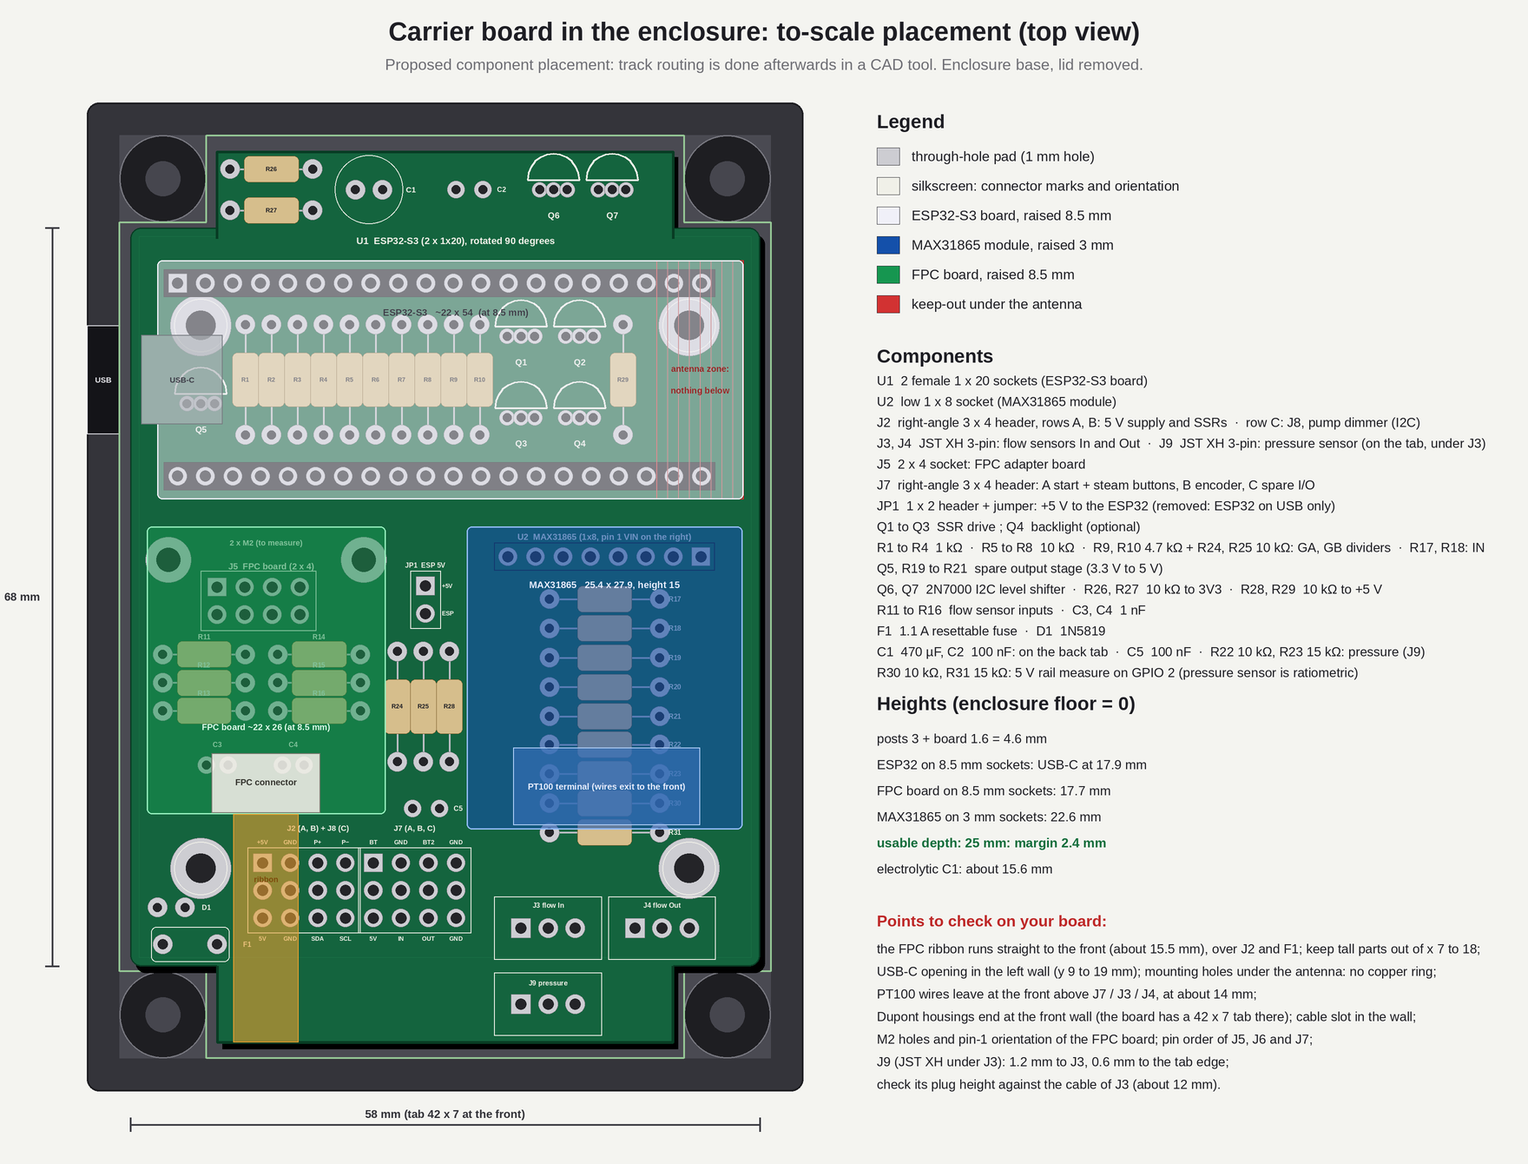
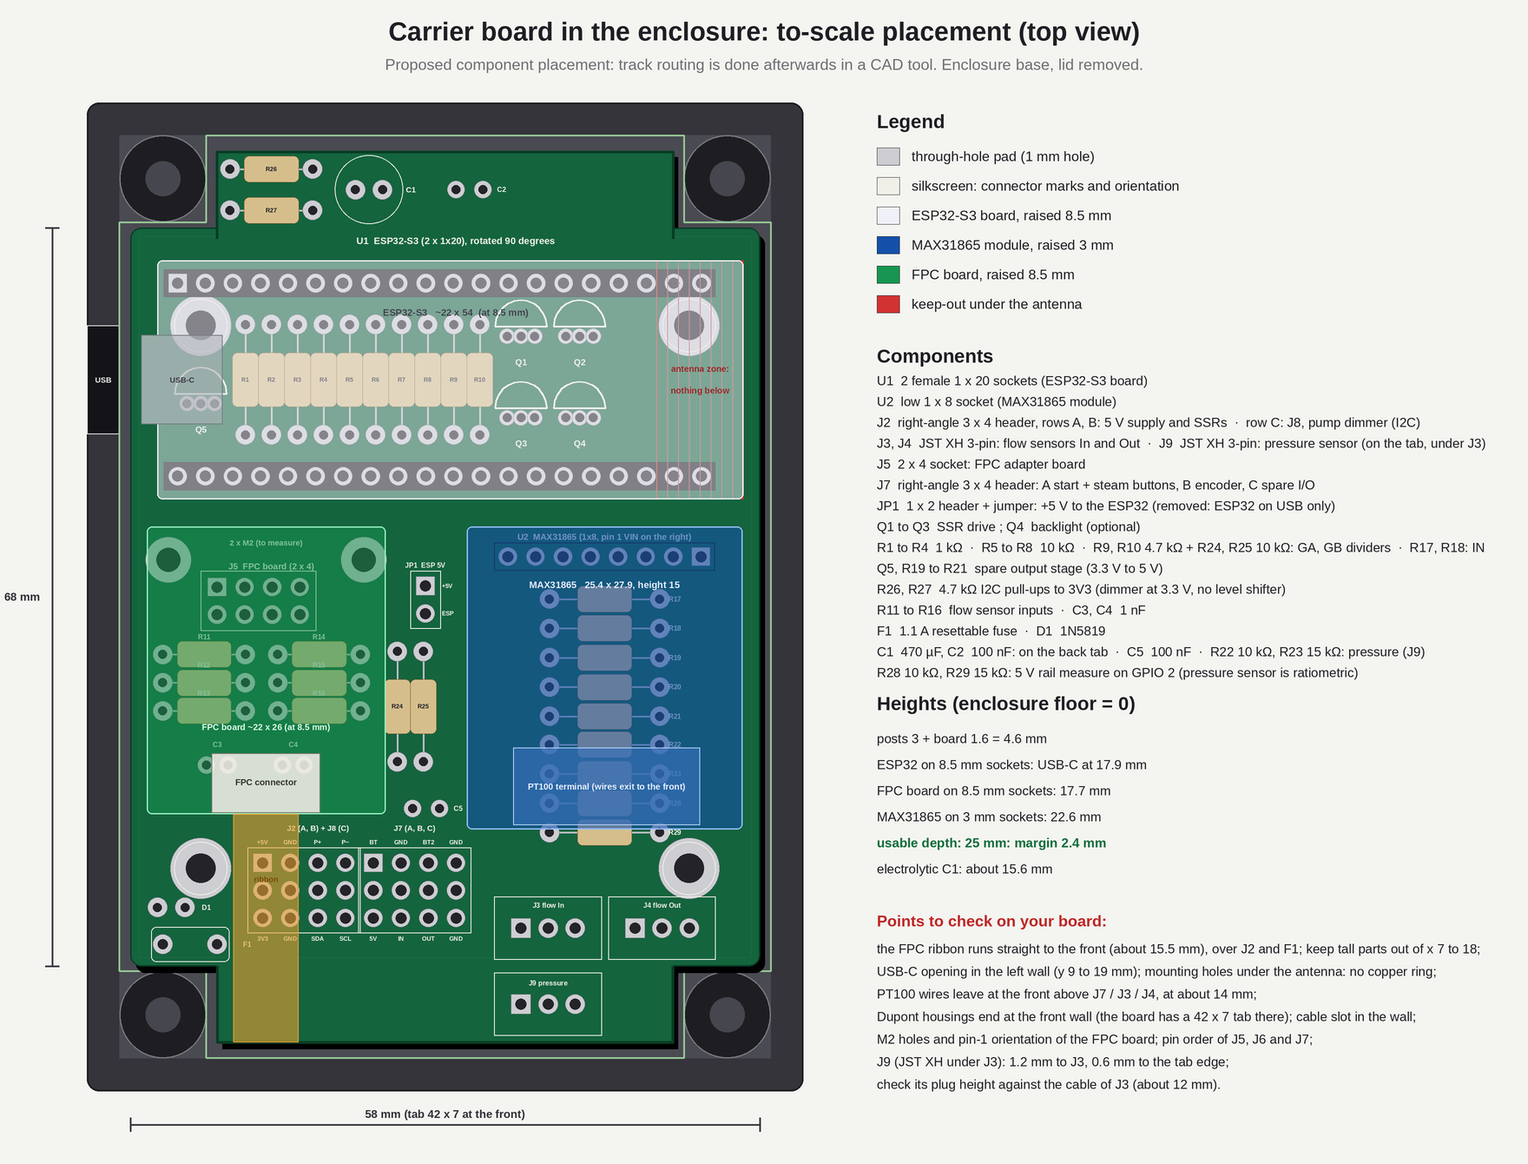
Dimmer powered from 3.3 V: level shifter removed (Q6, Q7, two pull-ups), R26/R27 4.7 k to 3V3, rail divider renumbered R28/R29
Claude-Session: https://claude.ai/code/session_012AnZeUFZeKvHXGUDRfJG7Q

diff --git a/tools/board_placement.py b/tools/board_placement.py
@@ -128,7 +128,6 @@ for i, name in enumerate(["R1", "R2", "R3", "R4", "R5", "R6", "R7", "R8", "R9", 
 # Q1..Q4: TO-92 bodies are 4.8 mm wide, so two rows of two (pitch 5.4 mm), clear of R10 and of the antenna zone
 for name, (qx, qy) in zip(["Q1", "Q2", "Q3", "Q4"], [(36.0, 10.0), (41.4, 10.0), (36.0, 17.5), (41.4, 17.5)]):
     to92(qx, qy, name)
-axial_v(45.4, 14.0, label="R29")                                # I2C pull-up to +5 V (SCL side), right of Q2 / Q4, clear of the antenna zone
 # spare I/O conditioning, flat resistors under the MAX31865 (3 mm clearance): R17 4.7 k + R18 10 k (input divider), R19 1 k base, R20 4.7 k pull-up to 5 V, R21 10 k base to GND
 for i, name in enumerate(["R17", "R18", "R19", "R20", "R21"]):
     axial(43.7, 34.2 + i * 2.7, pitch=10.16, label=None)
@@ -139,8 +138,8 @@ for i, name in enumerate(["R22", "R23"]):
     axial(43.7, 47.6 + i * 2.7, pitch=10.16, label=None)
     text(d, X(49.6), Y(47.6 + i * 2.7), name, 8, SILK, True, 'lm')
 
-# 5 V rail measure (GPIO 2), same 10 k / 15 k ratio as the pressure divider: R30 (series) and R31 (to GND), below R23
-for i, name in enumerate(["R30", "R31"]):
+# 5 V rail measure (GPIO 2), same 10 k / 15 k ratio as the pressure divider: R28 (series) and R29 (to GND), below R23
+for i, name in enumerate(["R28", "R29"]):
     axial(43.7, 53.0 + i * 2.7, pitch=10.16, label=None)
     text(d, X(49.6), Y(53.0 + i * 2.7), name, 8, SILK, True, 'lm')
 
@@ -189,7 +188,7 @@ rect(d, X(12.2) - 1.4 * K, Y(ROWS[0]) - 1.4 * K, X(12.2 + 3 * 2.54) + 1.4 * K, Y
 silk(17.3, 55.3, "J2 (A, B) + J8 (C)", 9)
 for c_, lab in enumerate(["+5V", "GND", "P+", "P−"]):
     text(d, X(12.2 + c_ * 2.54), Y(ROWS[0]) - 1.9 * K, lab, 7, SILK, True)
-for c_, lab in enumerate(["5V", "GND", "SDA", "SCL"]):
+for c_, lab in enumerate(["3V3", "GND", "SDA", "SCL"]):
     text(d, X(12.2 + c_ * 2.54), Y(ROWS[2]) + 1.9 * K, lab, 7, SILK, True)
 # J7: 3 x 4 right-angle header. Row A: start button (2) + steam button (2); row B: encoder (GA, GB, VCC, GND); row C: spare I/O (+5 V, IN, OUT, GND). (The pressure sensor is J9, a JST XH under J3.)
 for r_ in range(3):
@@ -215,14 +214,13 @@ text(d, X(6.6), Y(62.6), "D1", 8, SILK, True, 'lm')
 circ(d, X(22.0), Y(-3.5), 3.15 * K, fill=None, outline=SILK + (255,), width=2)
 tpad(20.75, -3.5, ring=1.8, drill=0.8); tpad(23.25, -3.5, ring=1.8, drill=0.8); text(d, X(25.4), Y(-3.5), "C1", 9, SILK, True, 'lm')
 tpad(30.0, -3.5, ring=1.6, drill=0.8); tpad(32.5, -3.5, ring=1.6, drill=0.8); text(d, X(33.8), Y(-3.5), "C2", 8, SILK, True, 'lm')
-# corridor, below JP1: R24, R25 (10 k, GA / GB dividers to GND) and R28 (I2C pull-up to +5 V, SDA side), vertical
-for i, name in enumerate(["R24", "R25", "R28"]):
+# corridor, below JP1: R24, R25 (10 k, GA / GB dividers to GND), vertical
+for i, name in enumerate(["R24", "R25"]):
     axial_v(24.6 + i * 2.4, 44.1, label=name)
-# back tab: I2C level shifter, Q6 / Q7 2N7000 (SDA / SCL) and R26 / R27 (10 k pull-ups to 3V3), left of C1
+# back tab: R26 / R27, 4.7 k I2C pull-ups to 3V3 (dimmer powered from 3.3 V: no level shifter), left of C1
 for i, name in enumerate(["R26", "R27"]):
     axial(13.0, -5.4 + i * 3.8, pitch=7.62, label=None)
     text(d, X(13.0), Y(-5.4 + i * 3.8), name, 7, INK, True)
-to92(39.0, -3.5, "Q6"); to92(44.4, -3.5, "Q7")
 # C5 100 nF (pressure filter, taller than 3 mm so not under the MAX31865): in the corridor, below JP1
 tpad(26.0, 53.5, ring=1.6, drill=0.8); tpad(28.5, 53.5, ring=1.6, drill=0.8); text(d, X(29.8), Y(53.5), "C5", 8, SILK, True, 'lm')
 # JST XH x2: vertical headers, pins along x, the plugs come out upwards: no keep-out towards the front, away from the ribbon path (x 7 to 18)
@@ -304,11 +302,11 @@ comp = [
     "Q1 to Q3  SSR drive ; Q4  backlight (optional)",
     "R1 to R4  1 kΩ  ·  R5 to R8  10 kΩ  ·  R9, R10 4.7 kΩ + R24, R25 10 kΩ: GA, GB dividers  ·  R17, R18: IN",
     "Q5, R19 to R21  spare output stage (3.3 V to 5 V)",
-    "Q6, Q7  2N7000 I2C level shifter  ·  R26, R27  10 kΩ to 3V3  ·  R28, R29  10 kΩ to +5 V",
+    "R26, R27  4.7 kΩ I2C pull-ups to 3V3 (dimmer at 3.3 V, no level shifter)",
     "R11 to R16  flow sensor inputs  ·  C3, C4  1 nF",
     "F1  1.1 A resettable fuse  ·  D1  1N5819",
     "C1  470 µF, C2  100 nF: on the back tab  ·  C5  100 nF  ·  R22 10 kΩ, R23 15 kΩ: pressure (J9)",
-    "R30 10 kΩ, R31 15 kΩ: 5 V rail measure on GPIO 2 (pressure sensor is ratiometric)",
+    "R28 10 kΩ, R29 15 kΩ: 5 V rail measure on GPIO 2 (pressure sensor is ratiometric)",
 ]
 for i, t in enumerate(comp):
     text(d, lx, 438 + i * 24, t, 15, INK, False, 'lm')

diff --git a/tools/board_schematic.py b/tools/board_schematic.py
@@ -35,7 +35,7 @@ def head(x, y, title, sub=None):
 head(60, 118, "J2 + J8: right-angle 3 x 4 male header", "rows A and B: J2 (one 2 x 4 housing, two ribbons of 4 wires); row C: J8")
 rowA = [("+5 V", RED), ("GND", DK), ("pump +", BRN), ("pump −", BRN)]
 rowB = [("boiler +", ORG), ("boiler −", ORG), ("valve +", YEL), ("valve −", YEL)]
-rowC = [("+5 V", RED), ("GND", DK), ("SDA", VIO), ("SCL", VIO)]
+rowC = [("+3.3 V", RED), ("GND", DK), ("SDA", VIO), ("SCL", VIO)]
 x0, yA, yB, yC = 60, 186, 232, 278
 for i, (lab, col) in enumerate(rowA):
     pin(x0 + i * 88, yA, lab, col, 14)
@@ -93,7 +93,7 @@ for i, (lab, col) in enumerate(mx):
 # ================================================================ 2. GPIO table
 gx = 860
 T(gx, 118, "ESP32-S3: pins used", F(22, True), INK, 'lm')
-rows = [("5V", "+5 V via JP1 (after diode and fuse)", RED), ("3V3", "display, I2C pull-ups (3.3 V side)", RED),
+rows = [("5V", "+5 V via JP1 (after diode and fuse)", RED), ("3V3", "display, dimmer (J8), I2C pull-ups", RED),
         ("GPIO 17", "pump SSR drive", BRN), ("GPIO 18", "boiler SSR drive", ORG), ("GPIO 21", "valve SSR drive", YEL),
         ("GPIO 15", "flow In", BLU), ("GPIO 16", "flow Out", BLU), ("GPIO 1", "pressure sensor (ADC)", BLU), ("GPIO 2", "5 V rail measure (ADC)", RED),
         ("GPIO 4 / 5", "encoder A / B", GRN), ("GPIO 6 / 41", "start / steam buttons", (90, 90, 96)),
@@ -129,8 +129,8 @@ cy = 866
 chain(gx, cy, "Encoder GA, GB, spare IN 38 (x3): 5 V to 3.3 V", "module out", "4.7 k", "GPIO", [(270, "10 k")], GRN)
 chain(gx, cy + 120, "Pressure input: 4.5 V to 2.7 V", "sensor", "10 k", "GPIO 1", [(250, "15 k"), (320, "100 nF")], BLU)
 chain(gx, cy + 240, "5 V rail measure (same ratio: pressure = signal / rail)", "+5 V rail", "10 k", "GPIO 2", [(250, "15 k")], RED)
-T(gx, cy + 352, "Dimmer I2C: Q6, Q7 2N7000 level shifter", F(14, True), VIO, 'lm')
-T(gx, cy + 374, "10 k pull-ups to 3V3 and to +5 V; SDA 47, SCL 48, 100 kHz", F(13), GRY, 'lm')
+T(gx, cy + 352, "Dimmer I2C: module powered from 3.3 V, no level shifter", F(14, True), VIO, 'lm')
+T(gx, cy + 374, "4.7 k pull-ups to 3V3 (R26, R27); SDA 47, SCL 48, 100 kHz", F(13), GRY, 'lm')
 T(gx, cy + 394, "ships in UART mode: switch it to I2C once", F(13), GRY, 'lm')
 
 # ================================================================ 3. circuits

diff --git a/tools/enclosure_overview.py b/tools/enclosure_overview.py
@@ -169,9 +169,7 @@ cuboid(CX0 + 22.4 - 1.27 + 0.15, CY0 + 65.6, top + 0.1, 10.0, 8.6, 2.3, (225, 22
 # polyfuse, standing diode, electrolytic, 100 nF, and the two JST XH (vertical headers with their plugs)
 cuboid(CX0 + 1.9, CY0 + 64.4, top, 7.2, 3.2, 11.0, (232, 200, 60))
 cuboid(CX0 + 1.2, CY0 + 61.2, top, 2.7, 2.7, 5.2, BLACK)
-cyl(CX0 + 22.0, CY0 - 3.5, 3.15, top, 12.0, (30, 40, 90))
-for qx in (39.0, 44.4):                                                                   # Q6 / Q7, 2N7000 (I2C level shifter), back tab
-    cuboid(CX0 + qx - 2.4, CY0 - 3.5 - 1.9, top, 4.8, 3.8, 5.0, (25, 25, 28))                                # 470 uF electrolytic
+cyl(CX0 + 22.0, CY0 - 3.5, 3.15, top, 12.0, (30, 40, 90))                                # 470 uF electrolytic (back tab)
 cuboid(CX0 + 29.25, CY0 - 4.3, top, 4.0, 1.6, 4.2, (200, 120, 40))                        # 100 nF (back tab)
 for k in range(2):
     xb = CX0 + 38.5 + k * 10.5 - 4.95

diff --git a/docs/carrier_spec.md b/docs/carrier_spec.md
@@ -5,13 +5,13 @@ All **through-hole** parts (no SMD soldering). Related files: `images/board_plac
 ## Dimensions and mounting
 - Enclosure interior (measured): **60 mm wide x 85 mm long**. The four big posts are round, **8 mm in diameter** (8 x 8 mm footprint), in the corners. The small posts (3 mm high) are at **45 x 50 mm**, centred.
 - The posts leave a plus-shaped usable area: **60 x 69 mm** between the posts along the long sides (y from 8 to 77) and **44 mm wide over the full 85 mm length** between the end posts.
-- Board: **58 x 68 mm main body** (0.5 to 1 mm of margin all round) **plus a 42 x 7 mm tab on the cable (front) side and a 42 x 7 mm tab at the back, behind the ESP32** (x 8 to 50), so the board is 82 mm long at the tabs; two layers, ground plane. The tab lets the Dupont housings of J2 / J7 and the JST XH plugs sit on the board up to the front wall; the back tab holds C1 (470 µF, x 22, y −3.5), C2 (100 nF, x 31, y −3.5), the I2C level shifter Q6 / Q7 (2N7000, x 39 and 44.4) and its 3.3 V pull-ups R26 / R27 (left of C1), which frees the central corridor; keep it clear of the antenna zone (x 48.5 and beyond).
+- Board: **58 x 68 mm main body** (0.5 to 1 mm of margin all round) **plus a 42 x 7 mm tab on the cable (front) side and a 42 x 7 mm tab at the back, behind the ESP32** (x 8 to 50), so the board is 82 mm long at the tabs; two layers, ground plane. The tab lets the Dupont housings of J2 / J7 and the JST XH plugs sit on the board up to the front wall; the back tab holds C1 (470 µF, x 22, y −3.5), C2 (100 nF, x 31, y −3.5), and the two 4.7 kΩ I2C pull-ups to 3.3 V R26 / R27 (left of C1), which frees the central corridor; keep it clear of the antenna zone (x 48.5 and beyond).
 - 4 mounting holes on the **3 mm** small posts, **45 x 50 mm** spacing, centred in the interior (board coordinates (6.5, 9), (51.5, 9), (6.5, 59), (51.5, 59)).
 - Usable depth **25 mm**: posts 3 + board 1.6 = 4.6 mm; ESP32 on 8.5 mm sockets (USB-C at 17.9 mm); FPC adapter board on 8.5 mm sockets (17.7 mm); MAX31865 on low 3 mm sockets (22.6 mm, 2.4 mm margin).
 - **ESP32-S3 rotated 90 degrees** (long side across the board, at the back, y 3 to 25 mm): **USB-C towards the left wall**, with an opening in that wall at y 9 to 19 mm (the connector is then far from the 8 mm corner posts). The antenna end is on the right (x 48.5 to 56.5 mm).
 - **Under the ESP32 (between the two socket rows, 8.5 mm clearance):** vertical axial resistors R1 to R10, then Q1 to Q4 on the right, in two rows of two (TO-92 bodies are 4.8 mm wide); Q5 (spare output) at the left, next to the USB end. The two small standoffs at the back (6.5, 9) and (51.5, 9) are under the ESP32; the one on the right is under the antenna, so use a **non-plated hole with no copper ring** there.
-- **Connector rows:** J8 is the lowest row of the J2 header; J7 is also a 3 x 4 right-angle strip (row A: start and steam buttons, row B: encoder, row C: spare I/O); each row has its own Dupont housing, rows are 2.54 mm apart vertically, the housings are not keyed: mind the order. J8 and J9 both have their plug and cable. The corridor between the FPC board and the MAX31865 holds JP1, R24 / R25 (GA / GB dividers to GND), R28 (I2C pull-up to +5 V) and C5; R29 (the other +5 V pull-up) stands under the ESP32 right of Q2 / Q4.
-- **Below the ESP32, side by side:** the FPC adapter board on the **left** (x 1.5 to 23.5 mm, connector towards the front, flow-input parts R11 to R16 and C3, C4 under it), the MAX31865 on the **right** (x 31 to 56.4 mm, rotated 180 degrees: header on its rear edge, pin 1 VIN on the right, PT100 terminal block facing the front), and a corridor between them (x 23.5 to 31 mm) holding JP1, R24, R25, R28 and C5.
+- **Connector rows:** J8 is the lowest row of the J2 header; J7 is also a 3 x 4 right-angle strip (row A: start and steam buttons, row B: encoder, row C: spare I/O); each row has its own Dupont housing, rows are 2.54 mm apart vertically, the housings are not keyed: mind the order. J8 and J9 both have their plug and cable. The corridor between the FPC board and the MAX31865 holds JP1, R24 / R25 (GA / GB dividers to GND) and C5.
+- **Below the ESP32, side by side:** the FPC adapter board on the **left** (x 1.5 to 23.5 mm, connector towards the front, flow-input parts R11 to R16 and C3, C4 under it), the MAX31865 on the **right** (x 31 to 56.4 mm, rotated 180 degrees: header on its rear edge, pin 1 VIN on the right, PT100 terminal block facing the front), and a corridor between them (x 23.5 to 31 mm) holding JP1, R24, R25 and C5.
 - **Front connector row:** right-angle headers with their Dupont housings need about **9 mm in front of the pads** (keep-out, nothing else there); J2 and J7 are on the 42 x 7 mm tab, the vertical JST XH J3 and J4 at the front right, F1 and D1 in the front-left corner. A cable slot is needed in the front wall (housings end about 1 mm from it).
 - **All cables leave through the front** (J2, J7, J8, J3, J4, J9, the PT100 wires and the display ribbon). Only the USB-C cable leaves through the left wall.
 - **Display ribbon:** the FPC adapter board is rotated so that its connector faces the front: the flat ribbon (about 6 mm wide, at about 15.5 mm) runs **straight to the front** between x 7 and 18 mm, above J2's housings (10.5 mm) and F1; no tall part (JST XH plugs reach about 16 mm) may sit in that column. Nothing crosses the MAX31865 any more.
@@ -27,7 +27,7 @@ All **through-hole** parts (no SMD soldering). Related files: `images/board_plac
 | J5 | 2 x 4 female socket | FPC adapter board (8 pins, ribbon to the remote display) |
 | J6 | 1 x 8 female socket (low, 3 mm) | MAX31865 module |
 | J7 | a **3 x 4 right-angle male header** | row A: start button + steam-mode button; row B: encoder (powered from 5 V); row C: 4 spare I/O pins (+5 V, level-adapted input, level-adapted output, GND) |
-| J8 | row C (the lowest) of the J2 header, 4 pins | RobotDyn 4 A pump dimmer, **I2C** (powered from 5 V, through an I2C level shifter) |
+| J8 | row C (the lowest) of the J2 header, 4 pins | RobotDyn 4 A pump dimmer, **I2C** (powered from **3.3 V**, no level shifter) |
 | J9 | JST XH 3-pin, vertical, on the tab right under J3 (centre x 38.5, y 71.5) | pressure sensor 0.5 to 4.5 V, 0 to 12 bar (powered from 5 V) |
 | JP1 | 1 x 2 male header + shunt jumper | +5 V board to the 5V pin of the ESP32 (see Circuits) |
 | ESP | 2 x 1 x 20 female sockets | ESP32-S3 board (about 22 x 54 mm from the photo; row spacing to be measured) |
@@ -61,15 +61,15 @@ The ESP32-S3 only accepts 3.3 V. Since the encoder module is powered from 5 V, i
 ### J8 (pump dimmer, row C of the J2 header, 4 pins in the module's order)
 | 1 | 2 | 3 | 4 |
 |---|---|---|---|
-| VCC (+5 V) | GND | SDA | SCL |
+| VCC (**+3.3 V**) | GND | SDA | SCL |
 
-RobotDyn "4 A Dimmer, DimmerLink UART / I2C interface" module (53 x 16 mm): no zero-cross pin and no PWM, everything goes through the bus. Reference code and documentation: https://github.com/robotdyn-dimmer/DimmerLink. Powered from **+5 V**. The module accepts 1.8 / 3.3 / 5 V but its logic levels follow VCC: at 5 V it expects roughly 3.5 V for a high and may drive its lines up to 5 V, which the ESP32-S3 does not tolerate. SDA and SCL therefore go through a **bidirectional level shifter**, one 2N7000 per line (Q6 = SDA, Q7 = SCL; gate on +3.3 V, source on the ESP32 side with a 10 kΩ pull-up to +3.3 V (R26, R27), drain on the module side with a 10 kΩ pull-up to +5 V (R28, R29)). 100 nF decoupling near the module. *Simpler alternative:* keep VCC at 3.3 V and drop the shifter. **Selected mode: I2C**, GPIO 47 = SDA, GPIO 48 = SCL (**provisional**).
+RobotDyn "4 A Dimmer, DimmerLink UART / I2C interface" module (53 x 16 mm): no zero-cross pin and no PWM, everything goes through the bus. Reference code and documentation: https://github.com/robotdyn-dimmer/DimmerLink. Powered from **+3.3 V** (the 3V3 pin of the ESP32 board). The module accepts 1.8 / 3.3 / 5 V and its logic levels follow VCC, so at 3.3 V it talks directly to the ESP32-S3: **no level shifter**. SDA and SCL each have a **4.7 kΩ pull-up to +3.3 V** on the board (R26, R27, on the back tab). 100 nF decoupling near the module. The module's own consumption on 3.3 V is that of its logic only (the triac side is on the mains); check it once with a multimeter, the ESP32 board regulator has little margin. **Selected mode: I2C**, GPIO 47 = SDA, GPIO 48 = SCL (**provisional**).
 
 **Important: the module ships in UART mode.** It must be switched to I2C once, by sending the UART frame `02 5B` (SWITCH_I2C) to it; the same two pins are then SDA / SCL. Plan a one-time switch (temporary UART sketch on GPIO 47 / 48, or a USB-serial adapter on J8) before using I2C. Going back to UART is done by writing `0x03` to the COMMAND register.
 
 I2C summary (from the DimmerLink documentation, version 1.0):
 - Address **0x50** (7-bit), changeable through register 0x30 (0x08 to 0x77, saved to EEPROM). Speed **100 kHz**.
-- Pull-ups: 10 kΩ on each side of the level shifter (+3.3 V side and +5 V side), four resistors in total; the ESP32 internal ones are too weak. If the module has its own pull-ups, measure to which voltage. Keep the cable under 30 cm.
+- Pull-ups: 4.7 kΩ to +3.3 V on SDA and SCL (R26, R27); the ESP32 internal ones are too weak. If the module has its own pull-ups, they are now to 3.3 V as well (in parallel, still fine). Keep the cable under 30 cm.
 - Registers: 0x00 STATUS (bit 0 ready, bit 1 error), 0x01 COMMAND (1 reset, 2 recalibrate, 3 switch to UART), 0x02 ERROR, 0x03 VERSION, **0x10 DIM0_LEVEL (0 to 100 %, read/write)**, 0x11 DIM0_CURVE (0 linear, 1 RMS, 2 log), 0x20 AC_FREQ (50 or 60), 0x21 / 0x22 AC_PERIOD (µs, half-wave), 0x23 CALIBRATION (1 = done).
 - Resolution is 1 % steps, and mains frequency is detected automatically. Use the linear curve for the pump.
 - Not stated in the documentation: power-on delay, EEPROM write time, maximum load, mains isolation. Wait a few hundred ms after power-up and poll STATUS bit 0 (ready) before the first write.
@@ -91,7 +91,7 @@ The footprint (9.9 x 5.8 mm, pins along x, plug upwards, real pitch 2.5 mm) is c
 
 G1/4 sensor, 0 to 12 bar, 0.5 to 4.5 V output. The signal goes through a divider, 10 kΩ (series) / **15 kΩ** (to GND), which brings 4.5 V down to 2.7 V (margin below the top of the ADC range, about 3.1 V, where it is least linear), plus 100 nF on GPIO 1 (ADC1, 12 dB attenuation); on the board: R22 (10 kΩ) and R23 (15 kΩ) flat under the MAX31865 below R21, C5 (100 nF) in the corridor, below JP1.
 
-**The sensor is ratiometric** (0.5 to 4.5 V = 10 to 90 % of its supply), and its supply is the board's +5 V rail, which sits at about 4.6 V after F1 and D1 and moves with the load. The rail is therefore measured on **GPIO 2** through the same 10 kΩ / 15 kΩ ratio (R30, R31, below R23), and the firmware uses the ratio of the two readings: ratio = ADC(GPIO 1) / ADC(GPIO 2); pressure in bar = (ratio − 0.1) / 0.8 x 12. This cancels the rail variations. Average the readings (the ESP32 ADC is noisy and not very linear at the ends). The pump can reach about 19 bar at zero flow, above the sensor's 12 bar range: make sure the machine's pressure relief valve limits the pressure at the sensor tap (and check the sensor's overpressure rating).
+**The sensor is ratiometric** (0.5 to 4.5 V = 10 to 90 % of its supply), and its supply is the board's +5 V rail, which sits at about 4.6 V after F1 and D1 and moves with the load. The rail is therefore measured on **GPIO 2** through the same 10 kΩ / 15 kΩ ratio (R28, R29, below R23), and the firmware uses the ratio of the two readings: ratio = ADC(GPIO 1) / ADC(GPIO 2); pressure in bar = (ratio − 0.1) / 0.8 x 12. This cancels the rail variations. Average the readings (the ESP32 ADC is noisy and not very linear at the ends). The pump can reach about 19 bar at zero flow, above the sensor's 12 bar range: make sure the machine's pressure relief valve limits the pressure at the sensor tap (and check the sensor's overpressure rating).
 
 ### J3 / J4 (JST XH 3-pin)
 1 = +5 V, 2 = signal, 3 = GND. The exact order comes from the sensor cable (often red / yellow / black).
@@ -136,8 +136,7 @@ Silkscreen read on the photo, left column from the USB-C end: GND, 5V, G48, BOOT
 | 1 | 1 x 2 male header + shunt jumper (JP1) | 0.2 € |
 | 3 | JST XH 3-pin headers (J3, J4, J9) | 0.7 € |
 | 4 | 2N2222A transistors (3 SSRs + spare output; backlight stage optional) | 0.6 € |
-| 2 | 2N7000 MOSFETs (Q6, Q7: I2C level shifter) | 0.3 € |
-| 31 | axial resistors R1 to R31 (1 kΩ, 4.7 kΩ, 10 kΩ, 15 kΩ; R4 with Q4 optional) | 1.5 € |
+| 29 | axial resistors R1 to R29 (1 kΩ, 4.7 kΩ, 10 kΩ, 15 kΩ; R4 with Q4 optional) | 1.5 € |
 | 1 | 1.1 A resettable fuse (radial) | 0.5 € |
 | 1 | 1N5819 diode | 0.2 € |
 | 1 | 470 µF 10 V radial capacitor (105 °C); 2 x 100 nF (C2, C5); 2 x 1 nF (C3, C4) | 1 € |
@@ -152,7 +151,7 @@ Silkscreen read on the photo, left column from the USB-C end: GND, 5V, G48, BOOT
 4. Dimensions of your FPC adapter board (about 22 x 26 mm estimated) and position of its mounting holes.
 5. Flow sensor output type (5 V or open collector): the planned circuit suits both.
 6. MAX31865 module (Adafruit, measured from the manufacturer's drawing): 25.4 x 27.9 mm, mounting holes 0.9" apart and 0.1" from the terminal-block edge, 1 x 8 header at 0.1" pitch on the short edge.
-7. Pump dimmer: one-time switch from UART to I2C (see J8); behaviour with the vibration pump to test; powered from 5 V through the 2N7000 I2C level shifter (or 3.3 V without it); pull-ups of the module, if any.
+7. Pump dimmer: one-time switch from UART to I2C (see J8); behaviour with the vibration pump to test; powered from 3.3 V, no level shifter; pull-ups of the module, if any; its 3.3 V consumption.
 8. Pressure sensor: confirm 3 wires (+5 V, GND, signal) and the G1/4 fitting on the hydraulic circuit.
 9. USB-C opening in the left wall (y 9 to 19 mm) and the USB cable bend outside the box.
 10. Display ribbon: length, thickness and pin-1 orientation of your FPC adapter board; the column x 7 to 18 mm in front of it must stay free of tall parts.

diff --git a/README.md b/README.md
@@ -24,7 +24,7 @@ Status: **working design, nothing has been manufactured.** Placement is to scale
 - Through-hole parts only (no SMD soldering).
 - ESP32-S3 (rotated 90 degrees, USB-C to the left) and MAX31865 module on sockets; FPC adapter board (remote display) on a 2 x 4 socket, its ribbon going straight to the front.
 - SSRs are kept, driven by 2N2222A transistors from the external 5 V supply.
-- Connectors: J2 2 x 4 (5 V + 3 SSRs), J7 3 x 4 right-angle (start + steam buttons, encoder, spare I/O), J8 1 x 4 (pump dimmer, I2C), 3 x JST XH 3-pin (J3, J4 flow sensors In and Out; J9 pressure sensor, on the tab under J3).
+- Connectors: J2 2 x 4 (5 V + 3 SSRs), J7 3 x 4 right-angle (start + steam buttons, encoder, spare I/O), J8 1 x 4 (pump dimmer, I2C, 3.3 V), 3 x JST XH 3-pin (J3, J4 flow sensors In and Out; J9 pressure sensor, on the tab under J3).
 
 ## To confirm before manufacturing
 See the end of `docs/carrier_spec.md`.
